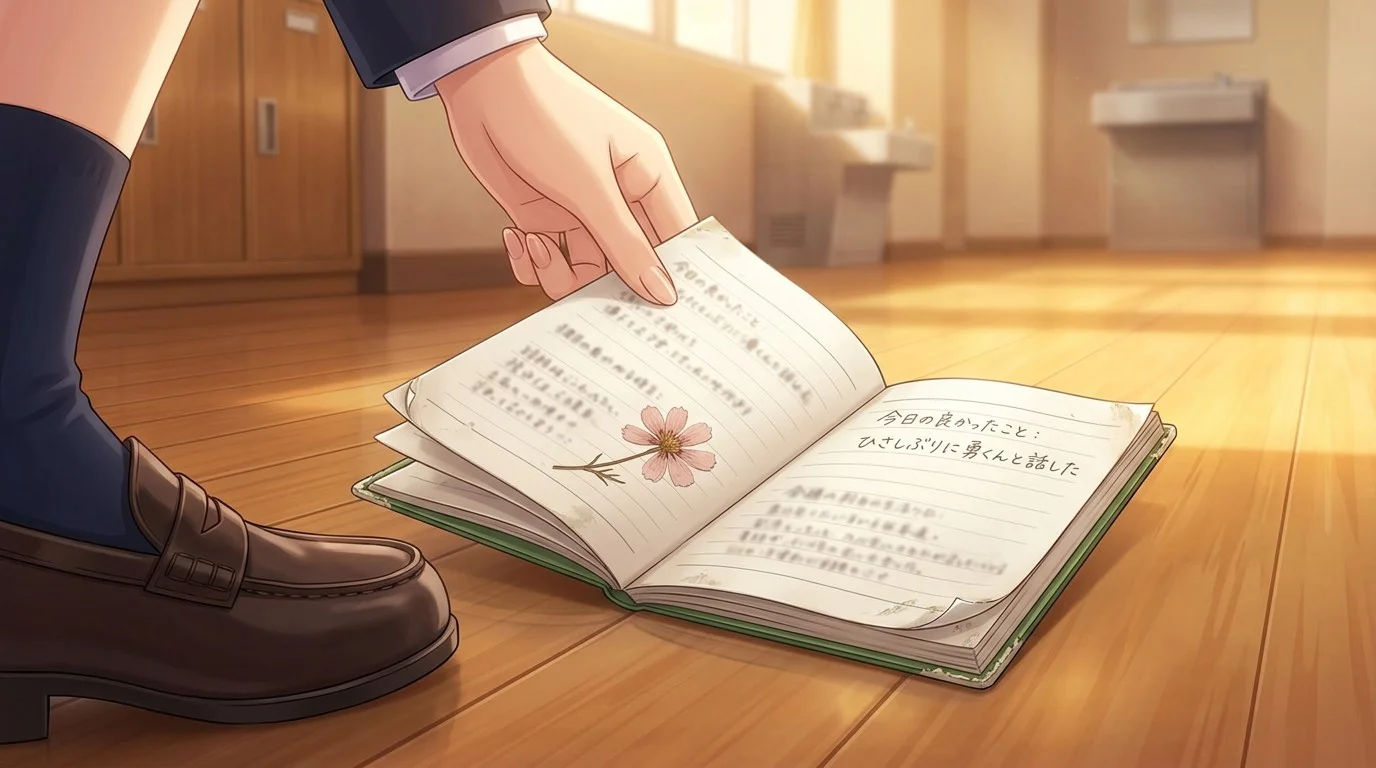
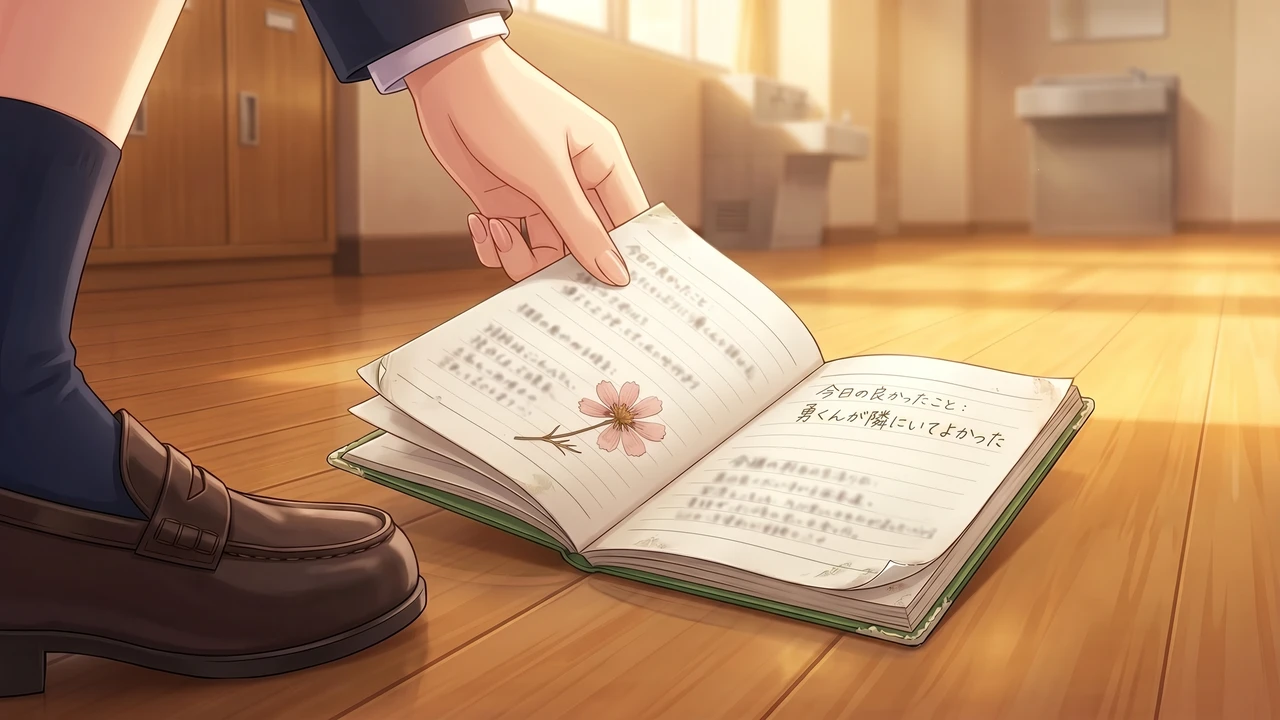
まひるのノートのスチル文字を場面と一致させる
- mahiru_notebook_drop を「今日の良かったこと/勇くんが隣にいてよかった」に
  描き直して差し替え(chapter4の引用と一致)
- mahiru_notebook_one_line の左ページをぼかして判読不可化(焦点文は維持)
- chapter8_rain_corridor(走馬灯)は兄の一行に合う画像が無いためスチルを外し
  ナレーションのみに
- デバッグ報告10に調査・対応を追記

diff --git a/assets-src/デバッグ報告10.md b/assets-src/デバッグ報告10.md
@@ -40,6 +40,18 @@
         - → 新規立ち絵が必要。
         - **→ 対応**：私服立ち絵 `nobuhara_private` を配置し、N2の立ち絵参照（@show/@expr 計10箇所）を `nobuhara_nobag`→`nobuhara_private` に差し替え済み。テキスト・配置はそのまま。
 
+  - [x] **まひるのノートのスチル文字 ⇔ 場面の引用の不一致** → 対応済み
+    - 調査：ノートスチルの描き文字が、場面が引用する文と合っているか全使用箇所を突き合わせ（実画像を目視確認）。
+    - **発見**：
+      - `mahiru_notebook_drop` … chapter4（引用「今日の良かったこと：勇くんが隣にいてよかった」）と chapter8_rain_corridor（引用「こういう夕方、お兄ちゃんが好きだったんだ」＝兄・一行）で**1枚を使い回し**。旧画像の文面は「ひさしぶりに勇くんと話した」で、chapter4とは本文がズレ、chapter8とは文面・構図（落とす↔閉じる）・行数すべて不一致。
+      - `mahiru_notebook_one_line`（route_mahiru）… 焦点文「今日も空が青かった」は一致。ただし左ページの背景日付が年バラバラでランダム（判読しにくい飾り）。
+    - **→ 対応**：
+      - `mahiru_notebook_drop` を**「今日の良かったこと／勇くんが隣にいてよかった」に描き直し**て差し替え（chapter4と一致）。
+      - `mahiru_notebook_one_line` の**左ページをぼかして判読不可化**して差し替え（焦点文は維持）。
+      - chapter8_rain_corridor（走馬灯）は**スチルを外しナレーションのみ**に（兄の一行に合う画像が無いため、不一致画像を出さない）。
+      - 取り込み：`assets-src/stills_re/*.png` → WebP(1280×720) 変換 → `assets/images/stills/` 差し替え。
+    - ※ソース管理メモ：`assets-src/stills/` 側に旧版PNGが残置（新版は `assets-src/stills_re/`）。ゲームが読むwebpは更新済み。将来 `assets-src/stills/` から再変換すると旧版に戻るため、必要なら旧版を上書き予定。
+
 ---------
 
 

diff --git a/scenarios/chapter8.md b/scenarios/chapter8.md
@@ -847,9 +847,7 @@ player: $chapter8.chapter8_rain_corridor.t015
 > $chapter8.chapter8_rain_corridor.t041
 
 @still_hide
-@wait 400
-@still mahiru_notebook_drop
-@wait 1200
+@wait 600
 
 > $chapter8.chapter8_rain_corridor.t042
 > $chapter8.chapter8_rain_corridor.t043
@@ -858,7 +856,6 @@ player: $chapter8.chapter8_rain_corridor.t015
 
 > $chapter8.chapter8_rain_corridor.t045
 
-@still_hide
 @wait 400
 
 @scene corridor_festival_rainy fade
